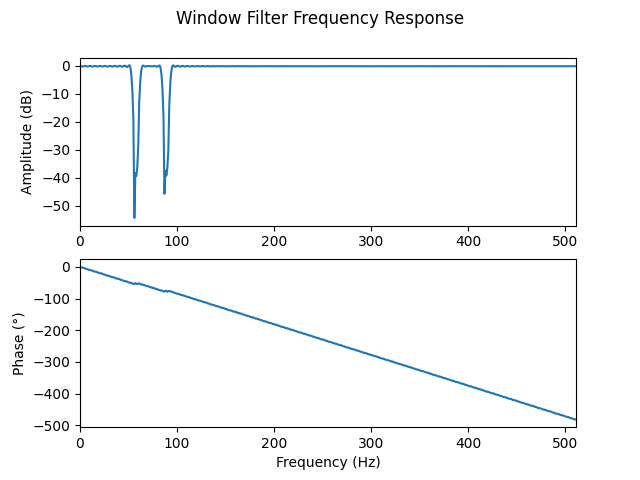
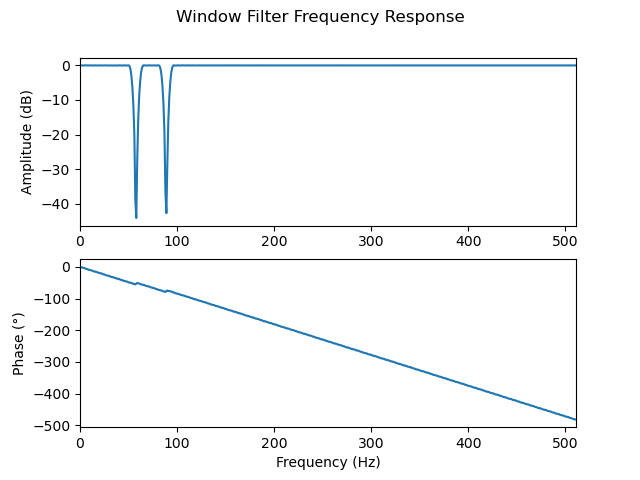
Update

diff --git a/main.py b/main.py
@@ -164,15 +164,15 @@ def combineFilters(numerator_1, denominator_1, numerator_2, denominator_2):
 
 
 #
-# FIR filter functions
+# FIR Filter functions
 #
-def createWindowFilter(notches, sample_rate, notch_width, num_taps):
-    """Compute and return the bandstop window filter array for the specified notches. Adjusting the window type and band width changes attenuation."""
+def createWindowFilter(notches, sample_rate, notch_width):
+    """Compute and return the bandstop  window filter array for the specified notches. Adjusting the window type and band width changes attenuation."""
 
-    window = ('kaiser', 2)
+    NUM_TAPS = 399 #Max number of taps allowed
+    window = ('kaiser', 4)
     f1, f2 = notches
-    width = notch_width / 1.2 #One sided 3dB bandwidth, in Hz
-    ny = sample_rate / 2.0
+    width = notch_width / 1.3 #One sided 3dB bandwidth, in Hz
 
     cutoff_1 = [(f1 - width), (f1 + width)]
     cutoff_2 = [(f2 - width), (f2 + width)]
@@ -187,9 +187,10 @@ def createOptimalFilter(notches, sample_rate, notch_width, gains, num_taps):
     """Compute and return the bandstop  optimal filter arrays for the specified notches. Adjusting the window type and band width changes attenuation."""
 
     f1, f2 = notches
-    width = notch_width / 1.0 #One sided 3dB bandwidth, in Hz
+    width = notch_width / 0.8 #One sided 3dB bandwidth, in Hz
     #gain = np.power(10, np.array(gains)/20)
-    weight = [1, 0.1, 1]
+    weight = [0.7, 1.2, 0.7]
+    
 
     band_1= [0,  f1 - width, f1 - 1, f1 + 1, f1 + width, sample_rate / 2] #Pad the stop band as the method doesnt convege well otherwise
     band_2= [0, f2 - width, f2 - 1, f2 + 1, f2 + width, sample_rate / 2]
@@ -205,7 +206,7 @@ def createFreqSamplingFilter(notches, sample_rate, notch_width, gains, num_taps)
     """Compute and return the bandstop frequency sampling filter arrays for the specified notches. Adjusting the window type and band width changes attenuation."""
 
     f1, f2 = notches
-    window_type = ('kaiser', 0.1)
+    window_type = ('kaiser', 5)
     width = notch_width / 0.5 #One sided 3dB bandwidth, in Hz
     #gain = np.power(10, np.array(gains)/20.0)
 
@@ -296,35 +297,6 @@ def saveFigures(figures, figures_location, figure_names):
     for i in range(len(figures)):
         plt.figure(figures[i].number) # Set the figure as the current figure
         plt.savefig(output_path + '/' + figure_names[i]) # Save the current figure
-
-
-
-def calculateVariance(data):
-    """Calculates and returns the variance of a signal"""
-
-    # Calculate the variance of the signal X using: variance = E[X^2] - E[X]^2
-    expected_data_power = sum((np.square(data)))/len(data)  # Calculate E[X^2]
-    power_of_expected_data = np.square(sum(data)/len(data))  # Calculate E[X]^2
-    variance_data = expected_data_power - power_of_expected_data  # Calculate the variance of the data
-
-    return variance_data
-
-
-
-def calculateNoiseVariance(data, filtered_data):
-    """"Calculate the variance of the noise by comparing the filtered and unfiltered data. The variance of the noise
-    is approximated as the variance of the signal removed by the filter"""
-
-    # Turn data arrays into numpy arrays so that mathematical operations can be performed
-    np_data = np.array(data)
-    np_filtered_data = np.array(filtered_data)
-
-    # Calculate the variance of the removed noise by finding the variances of the filtered and unfiltered data
-    data_variance = calculateVariance(np_data) # Calculate the variance of the unfiltered data
-    filtered_data_variance = calculateVariance(np_filtered_data) # Calculat the variance of the filtered data
-    noise_data_variance = data_variance - filtered_data_variance # Calculate the variance of the removed noise
-
-    return noise_data_variance
 
 
 
@@ -459,8 +431,7 @@ def main():
                         'second frequency sampling filter': second_freq_sampling_noise_variance
                         }  # Create a dictionary of the filter name and its noise power
     saveNoisePowerData(noise_power_data, noise_power_output_filename)  # Save the data about each filter to a file
-
-    #plt.show()
+    plt.show()
     
 
 
